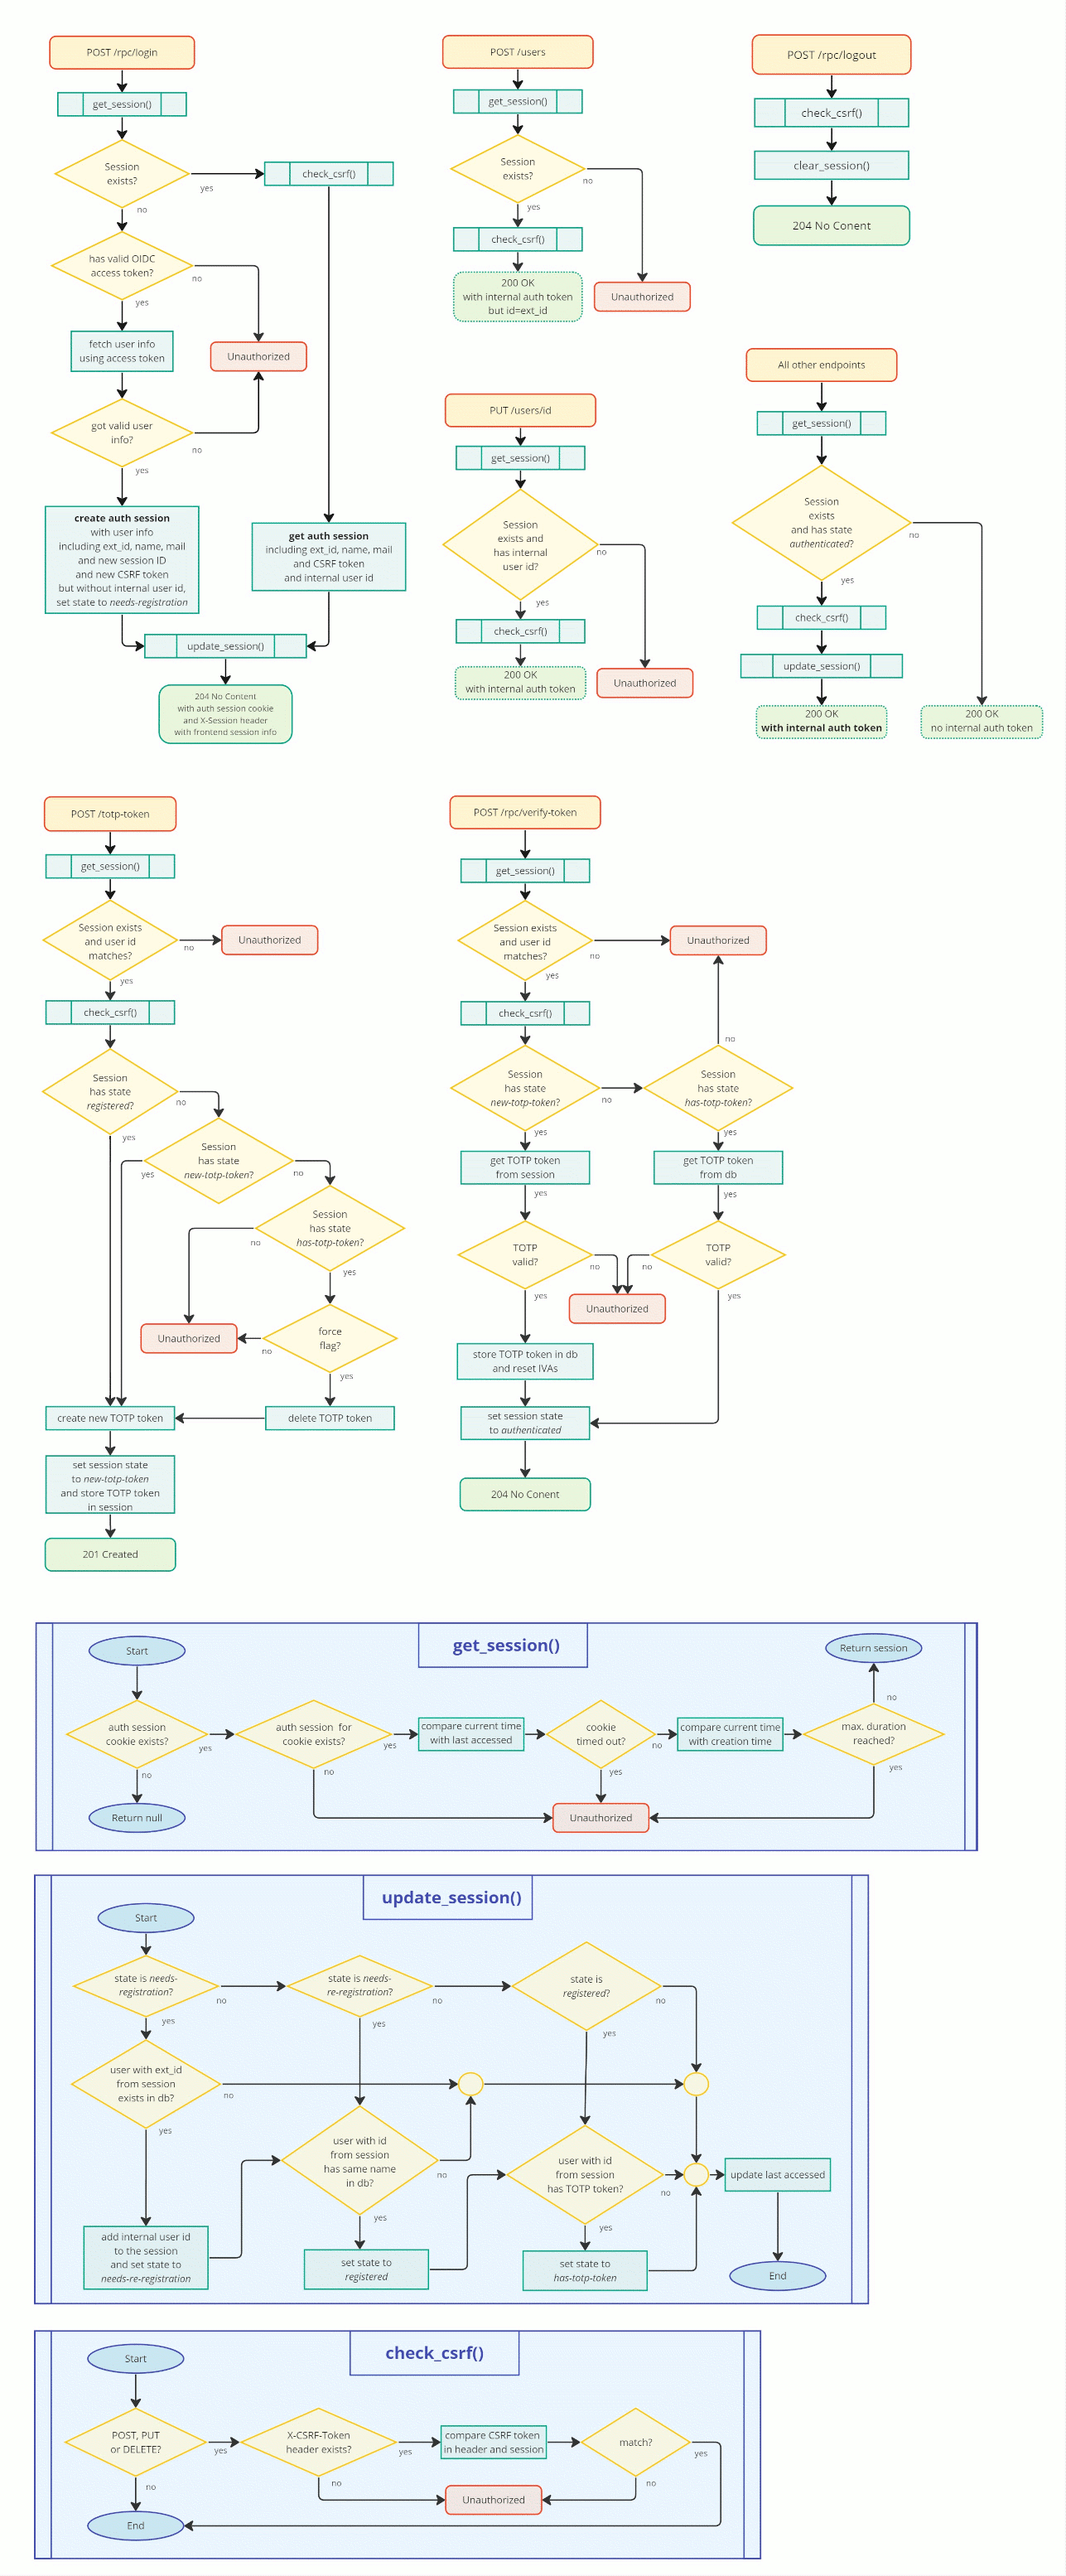
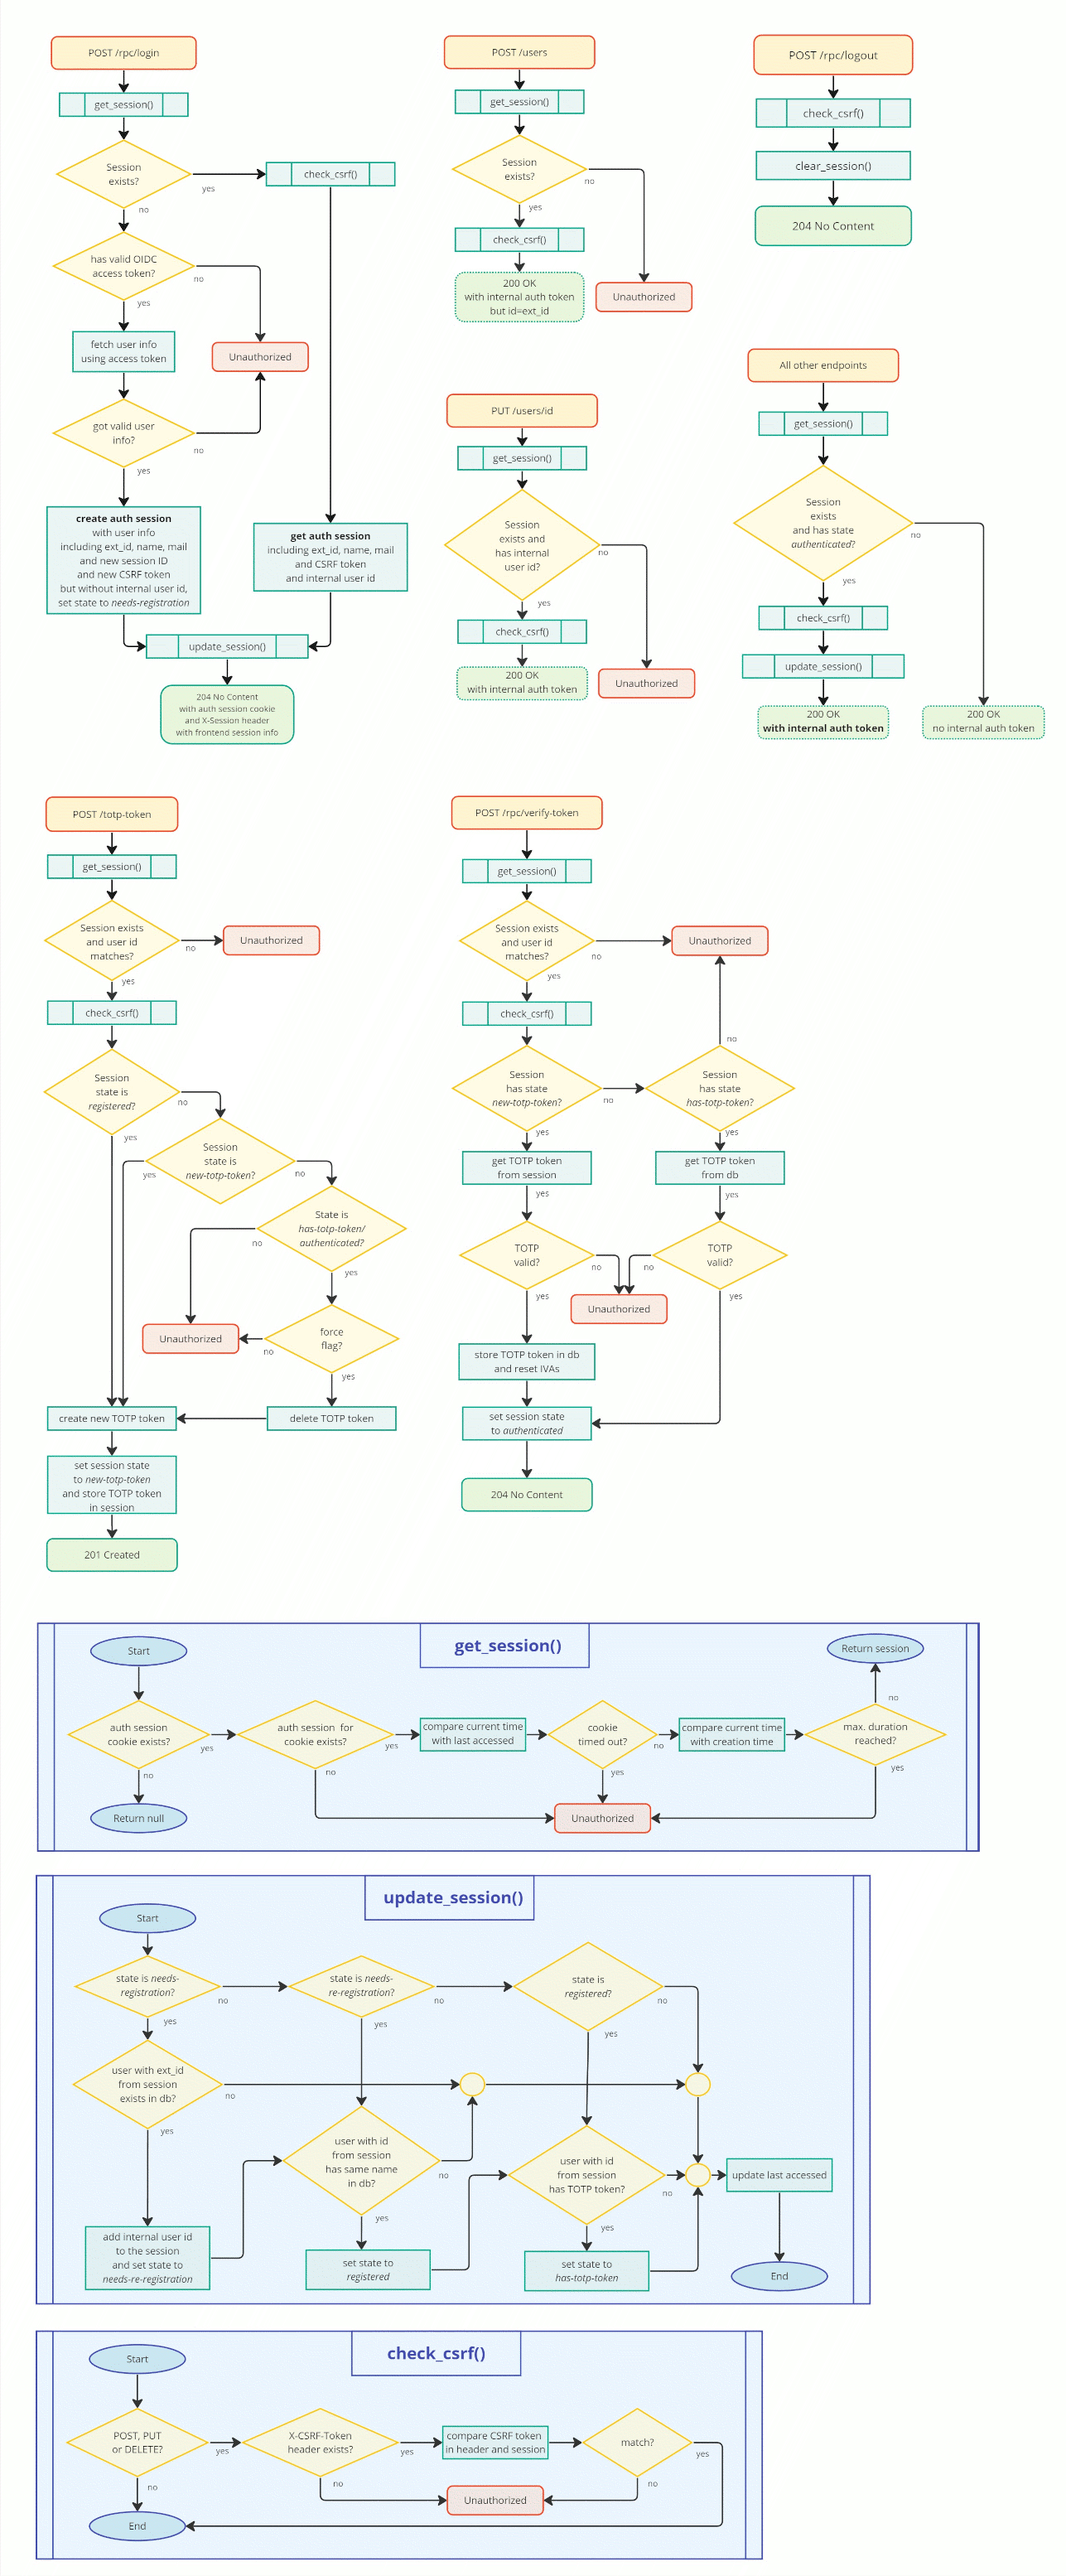
Update tech spec of Sugar Ant (#101)

diff --git a/docs/epics/46-sugar-ant/technical_specification.md b/docs/epics/46-sugar-ant/technical_specification.md
@@ -51,7 +51,7 @@ The Auth Adapter creates an auth session and tracks users as soon as they have l
 
 Instead of converting the OIDC access token to our internal auth token, the Auth Adapter should now convert the content of the user session into the internal auth token. The internal auth token will change a bit, as outlined in a section below.
 
-The Auth Adapter must also be extended with a mechanism that prevents "session riding" attacks, using the "Cookie-to-header token" method. Thereby, the first request that creates the session responds not only with the session cookie, but also with a "CSRF cookie" which must be a unique and unpredictable string, either as a random string or derived from the session token via HMAC and an application secret. Contrary to the session cookie, the CSRF cookie must not set the "HttpOnly" flag, because it must be read by JavaScript running in the frontend so that it can be passed in the request header as a CSRF token for each request to the backend. The Auth Adapter needs to compare the CSRF token with the unique string set in the CSRF cookie.
+The Auth Adapter must also be extended with a mechanism that prevents "session riding" attacks using CSRF tokens. Thereby, the first request that creates the session responds also creates a CSRF token, which should be a unique and unpredictable string stored as part of the session. Contrary to the session cookie, the CSRF token must be made known to the frontend application, so that it can be passed in the request header as a CSRF token for each request to the backend. The Auth Adapter needs to compare the CSRF token with the unique string stored in the backend session.
 
 The following endpoints will be implemented in the Auth Adapter for managing sessions. These endpoints are not proxied by the API gateway, but respond directly back to the client.
 
@@ -133,7 +133,7 @@ This endpoint first verifies that the user has a valid auth session, i.e. has be
 
 The implementation only supports a single TOTP token per user. If an activated token (a TOTP token that has already been successfully validated at least once) already exists and the `force` flag is set to `true`, then the existing TOTP token will be replaced by the newly created one.
 
-As a side effect of this endpoint, when a user's TOTP token is replaced, all existing IVAs associated with this user must be set back to "unverified", as required in the white paper for 2FA and IVAs. Also, a notification should be sent to the user so that they can notice if someone else got hold of their first factor and is trying to use it to re-establish the second factor. This and some of the other security-critical events mentioned in this spec should later also be recorded in an audit log.
+As a side effect of this endpoint, when a user's TOTP token is replaced, all existing IVAs associated with this user must be set back to "unverified", as required in the white paper for 2FA and IVAs. Also, a notification should be sent to the user so that they can notice if someone else got hold of their first factor and is trying to use it to re-establish the second factor. This assumes that the user is also notified using their existing email address if someone tries to re-register with a changed email address using the first factor. These and some of the other security-critical events mentioned in this spec should later also be recorded in an audit log.
 
 The QR code should be created in the frontend, e.g. using `react-qr-code` or the `qr-code` web component. If during implementation there are any issues with this approach, it can alternatively also be created in the backend, e.g. using the `segno` library.
 
@@ -272,6 +272,39 @@ The `ghga-service-commons` library must be changed to reflect the changes in the
 
 ### Backend Models
 
+A new `TOTPToken` model must be created that includes all attributes required to operate a TOTP token, like the OTP secret key that it is based upon (details will be defined during implementation).
+
+The `TOTPToken`s will be managed by the Auth Adapter, as explained above.
+
+The Auth Adapter should store user sessiosn using a `Session` that should have the following fields:
+
+- `session_id`: string (the unique ID of the session)
+- `ext_id`: string (external user ID)
+- `user_id`: optional string (internal user ID, if registered)
+- `user_name`: string (full name of the user)
+- `user_email`: string (email address of the user)
+- `user_title`: optional string (academic title of the user)
+- `role`: optional string (role of the user)
+- `state`: enum (see section on Session states)
+- `csrf_token`: string (the CSRF token for the session)
+- `totp_token`: TOTPToken (the TOTP token object of the user, if created)
+- `created`: timestamp (when the session was created)
+- `last_used`: timestamp (when the session was last used)
+
+The backed user session can be requested by the frontend using the `/rpc/login` endpoint mentioned above, which returns it serialized to an `X-Session`, which should have the following fields:
+
+- `ext_id` = `Session.ext_id`
+- `id` = `Session.user_id` (if set)
+- `name` = `Session.user_name`
+- `email` = `Session.user_email`
+- `state` = `Session.state`
+- `role` = `Session.role` (if set)
+- `csrf` = `Session.csrf_token`
+- `timeout` = number of seconds until the session times out if not used
+- `extends` = number of seconds that the session can still be extended
+
+Note that the Session ID and the TOTP token are not part of this structure. The Session ID is passed only in the auth cookie and should not be visible to the client so that it can not leak outside. The TOTP token is returned only in the provisioning URI by the `/totp-token` endpoint. It should only be used to setup the authenticator app, but it should not be used or stored on the client side otherwise.
+
 A new `IVA` (independent verification address) model must be added to the User Management service:
 
 - `id`: string (unique internal id)
@@ -293,10 +326,6 @@ After three failed attempts or when the `last_changed` field indicates that the 
 The `state` transitions from `unverified` (after creation), over `code_requested` (user requested a verification), `code_created` (a verification code has been created) and `code_transmitted` (the verification code has been transmitted to the user) to `verified` (the user confirmed the receipt of the verification code by returning it properly).
 
 The `Claims` model must be extended so that claims in addition to referencing a user, it can optionally also reference an `IVA` via an additional property `iva_id`.
-
-A new `TOTPToken` model must be created that includes all attributes required to operate a TOTP token, like the OTP secret key that it is based upon (details will be defined during implementation).
-
-The `TOTPToken`s will be managed by the Auth Adapter, as explained above.
 
 The `AccessRequest` model must be extended to also include an optional `iva_id` field referencing an IVA that is used to verify the corresponding access grant. This field will be initially set to `None`, and it will be set after access has been allowed.
 
@@ -332,7 +361,7 @@ On the same page, the frontend also asks the user to enter the one-time password
 
 If the session has the `has-totp-token` state, a similar text input field should be presented to the user, asking them to enter the one-time-password (six-digit code) shown in the authenticator app for authentication.
 
-The user is also shown a link that allows re-creating the second factor. This link can be used in the case they lost the phone with the authenticator app and do not have a backup of the secrets. Following the link, after a warning that all independent verification addresses will be invalidated, the user state should be set to `lost-topt-token`. In that case, the `POST /totp-token` endpoint should be called with the `force` flag to overwrite an existing TOTP token.
+The user is also shown a link that allows re-creating the second factor. This link can be used in the case they lost the phone with the authenticator app and do not have a backup of the secrets. Following the link, after a warning that all independent verification addresses will be invalidated, the user state should be set to `lost-totp-token`. In that case, the `POST /totp-token` endpoint should be called with the `force` flag to overwrite an existing TOTP token.
 
 When the user submits the one-time-password, the frontend uses the `POST /rpc/verify-totp` endpoint to check its validity.
 
